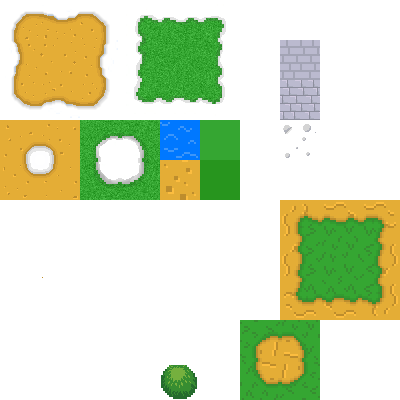
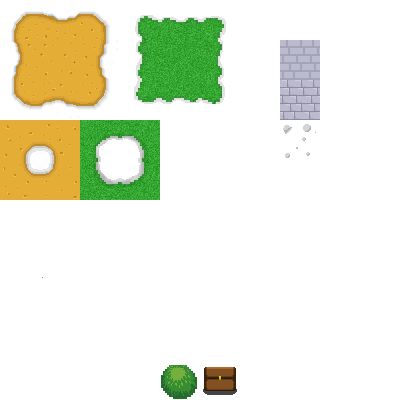
Syncronization

Changed region(s): [[0.51, 0.48, 1.0, 1.0], [0.39, 0.3, 0.6, 0.51]]

diff --git a/maps/Outside Tiles.tsx b/maps/Outside Tiles.tsx
@@ -1,0 +1,4 @@
+<?xml version="1.0" encoding="UTF-8"?>
+<tileset name="Outside Tiles" tilewidth="40" tileheight="40" tilecount="100" columns="10">
+ <image source="../resources/tile_set_img.png" width="400" height="400"/>
+</tileset>

diff --git a/gui.py b/gui.py
@@ -117,8 +117,14 @@ class InventoryMenu(Gui_base):
         super().draw()
         self.screen.blit(self.player.inventory[self.selected].texture, (self.x + 456, self.y + 476))
         self.current_f_text.draw(self.x + 30, self.y + 480)
-        for index, item in enumerate(self.player.inventory):
-            MenuText(f"{item.name}", self.screen).draw(self.x + 63, self.y + 105 + index * 20)
+        self.stacks = {}
+        for item in self.player.inventory:
+            if item.name in self.stacks:
+                self.stacks[item.name].append(item)
+            else:
+                self.stacks[item.name] = [item]
+        for index, name in enumerate(self.stacks.keys()):
+            MenuText(f"{name} × ", self.screen).draw(self.x + 63, self.y + 105 + index * 20)
             MenuText(f"{item.value}", self.screen).draw(self.x + 480, 125 + index * 20)
 
     def move_pointer(self, direction):

diff --git a/items.py b/items.py
@@ -49,8 +49,8 @@ class Misc(Item):
     def __init__(self, name, value, texture, flavor_text):
         super().__init__(name, value, False, texture, flavor_text)
 
+items = []
 def create_items(player):
-    items = []
     items.append(Weapons("Iron sword", 15, player, 200, 100, [stab, slash, lunge], pg.image.load("./items/iron_sword.png"), "Just an average sword."))
     items.append(Food("Bad Potato", 1, player, -1, pg.image.load("./items/bad_potato.png"), ["A bad potato, probably ", "not good for your body."]))
     items.append(Food("Potato", 1, player, 1, pg.image.load("./items/potato.png"), "A potato, heals 1 hp."))
@@ -59,3 +59,6 @@ def create_items(player):
     items.append(Food("Health Potion", 100, player, 10, pg.image.load("./items/health_pot.png"), "Heals 10 hp."))
 
     return items
+
+# Preset Loot Tables
+low_lvl_chest_loot = [items[0].copy(), items[2].copy, items[2].copy]

diff --git a/main.py b/main.py
@@ -76,8 +76,7 @@ class Game:
 
         # Giving player some items (temporary)
         self.items = create_items(self.player)
-        for x in range(2):
-            self.player.inventory.append(self.items[0])
+        self.player.inventory.append(self.items[0])
         self.player.inventory.append(self.items[1])
         self.player.inventory.append(self.items[2])
         self.player.inventory.append(self.items[4])

diff --git a/containers.py b/containers.py
@@ -1,0 +1,9 @@
+class Container:
+    def __init__(self, size, items, interface):
+        self.size = size
+        self.items = items[:self.size]
+        self.interface = interface
+    
+    def interact(self):
+        self.interface.open()
+        #TODO: Fix
